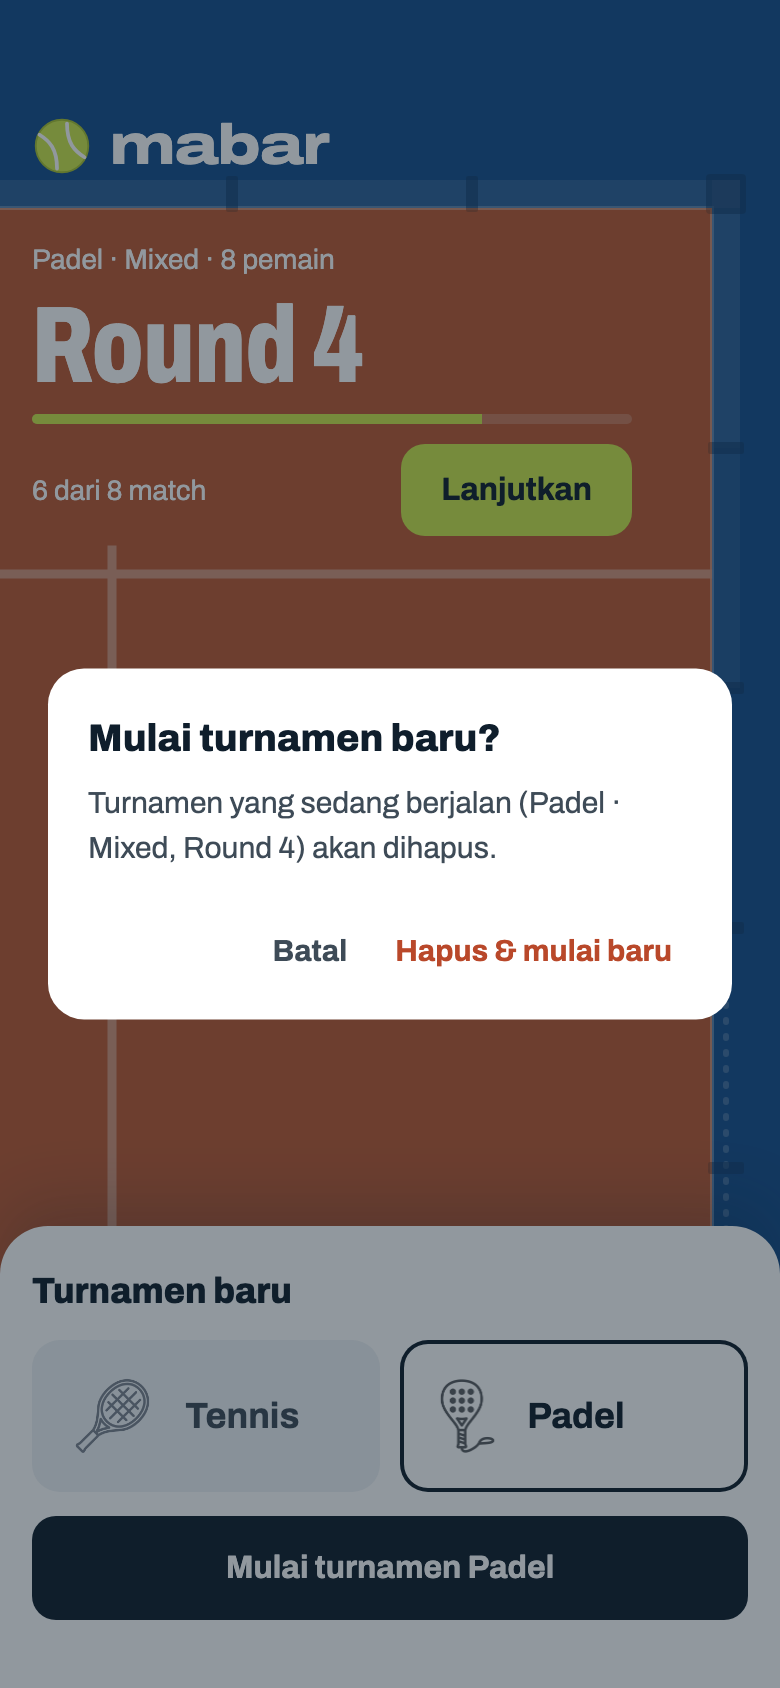
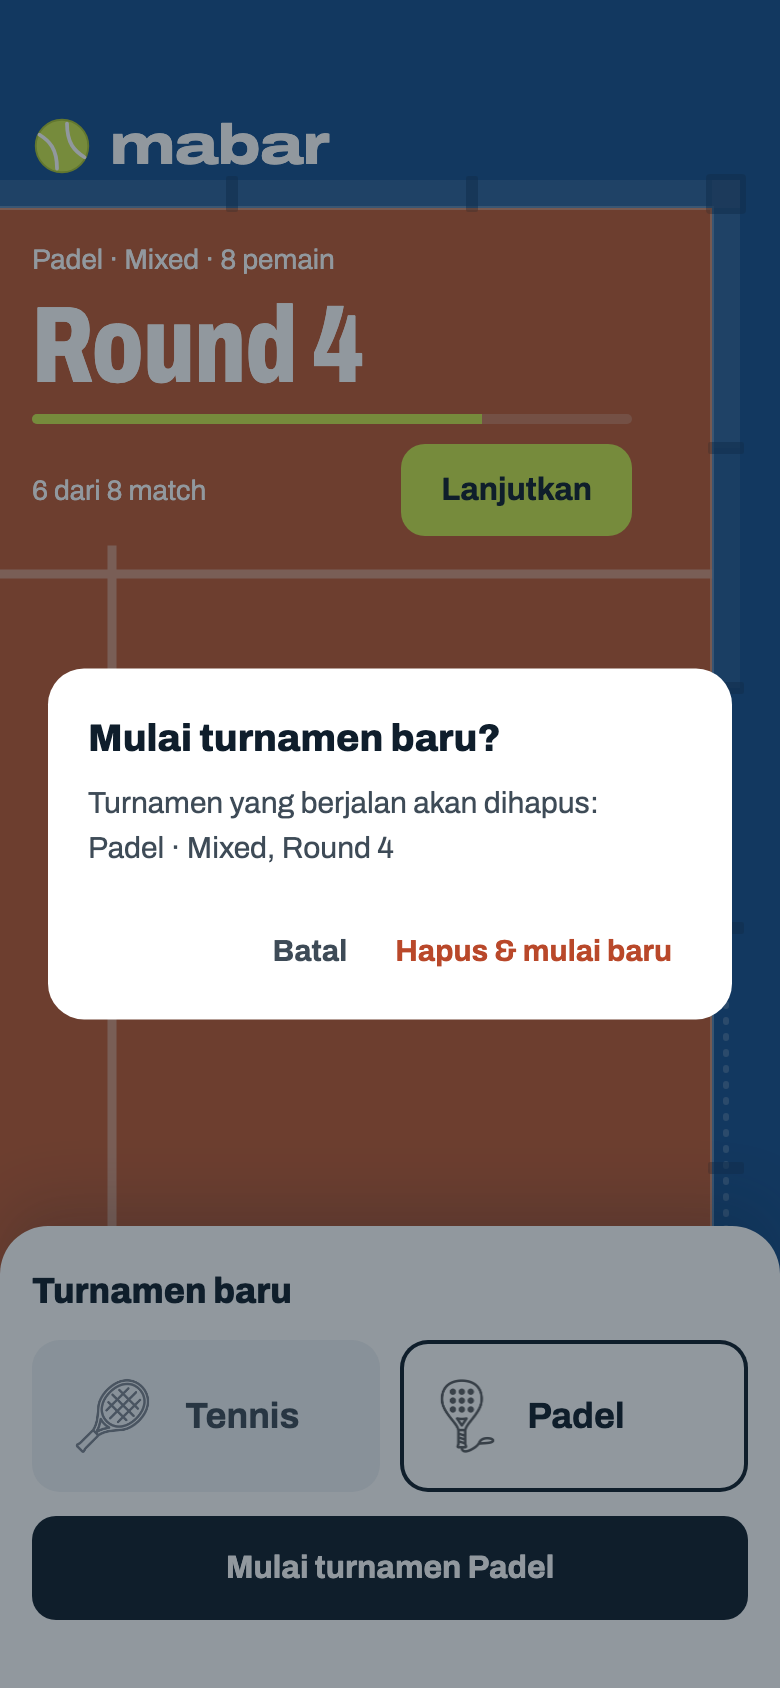
[major] Dialog mulai baru (01h): dua baris, turnamen yang dihapus di baris sendiri
Keputusan host 2026-10-22: "Turnamen yang berjalan akan dihapus:" lalu "Padel · Mixed, Round 4". "sedang"
dibuang supaya baris pertama muat satu baris di lebar dialog. Hi-fi + Cakupan diperbarui, 01h dirender ulang.

Changed region(s): [[0.1231, 0.4621, 0.7692, 0.5237]]

diff --git a/design/hifi.html b/design/hifi.html
@@ -863,7 +863,7 @@ table.map { width: 100%; border-collapse: collapse; font-size: 14px; min-width: 
 
     <div class="scr">
       <div class="cap"><b>01h</b><span>Dialog · mulai turnamen baru</span></div>
-      <div class="app"><div class="court-band fill"><svg class="lines" width="390" height="700" viewBox="0 0 390 700" aria-hidden="true"><rect width="390" height="700" fill="#164E8C"/><rect x="-10" y="104" width="366" height="620" fill="#BC5A33"/><g class="marks"><rect x="-10" y="90" width="380" height="14" fill="#fff" fill-opacity=".3"/><rect x="356" y="90" width="14" height="134" fill="#fff" fill-opacity=".3"/><rect x="356" y="224" width="14" height="120" fill="#fff" fill-opacity=".18"/><path d="M-10 104H356V700" stroke="#fff" stroke-opacity=".85" stroke-width="2" fill="none"/><path d="M363 350V700" stroke="#fff" stroke-opacity=".55" stroke-width="3" stroke-dasharray="1 7" stroke-linecap="round" fill="none"/><g fill="#0F1E2C" fill-opacity=".55"><rect x="353" y="87" width="20" height="20" rx="2"/><rect x="233" y="88" width="6" height="18" rx="1"/><rect x="113" y="88" width="6" height="18" rx="1"/><rect x="354" y="221" width="18" height="6" rx="1"/><rect x="354" y="341" width="18" height="6" rx="1"/><rect x="354" y="461" width="18" height="6" rx="1"/><rect x="354" y="581" width="18" height="6" rx="1"/></g><g stroke="#fff" fill="none" stroke-linecap="square" stroke-width="4.5"><path d="M-10 287H354M56 275V710"/></g></g></svg><div class="wordmark"><svg width="30" height="30" aria-hidden="true"><use href="#ball"/></svg>mabar</div><div class="liveblock" style="top:120px;width:300px;gap:10px"><span class="sub">Padel · Mixed · 8 pemain</span><b class="big n">Round 4</b><div class="prog"><i style="width:75%"></i></div><div class="foot"><span>6 dari 8 match</span><span class="btn btn-ball">Lanjutkan</span></div></div></div><div class="homepanel"><h2>Turnamen baru</h2><div class="pick"><div class="pickt "><img src="img/racket_tennis.png" alt=""><b>Tennis</b></div><div class="pickt on"><img src="img/racket_padel.png" alt=""><b>Padel</b></div></div><span class="btn btn-primary" style="flex:none">Mulai turnamen Padel</span></div><div class="scrim"></div><div class="dialog"><h2>Mulai turnamen baru?</h2><p>Turnamen yang sedang berjalan (Padel · Mixed, Round 4) akan dihapus.</p><div class="dactions"><span class="txtbtn">Batal</span><span class="txtbtn danger">Hapus &amp; mulai baru</span></div></div></div>
+      <div class="app"><div class="court-band fill"><svg class="lines" width="390" height="700" viewBox="0 0 390 700" aria-hidden="true"><rect width="390" height="700" fill="#164E8C"/><rect x="-10" y="104" width="366" height="620" fill="#BC5A33"/><g class="marks"><rect x="-10" y="90" width="380" height="14" fill="#fff" fill-opacity=".3"/><rect x="356" y="90" width="14" height="134" fill="#fff" fill-opacity=".3"/><rect x="356" y="224" width="14" height="120" fill="#fff" fill-opacity=".18"/><path d="M-10 104H356V700" stroke="#fff" stroke-opacity=".85" stroke-width="2" fill="none"/><path d="M363 350V700" stroke="#fff" stroke-opacity=".55" stroke-width="3" stroke-dasharray="1 7" stroke-linecap="round" fill="none"/><g fill="#0F1E2C" fill-opacity=".55"><rect x="353" y="87" width="20" height="20" rx="2"/><rect x="233" y="88" width="6" height="18" rx="1"/><rect x="113" y="88" width="6" height="18" rx="1"/><rect x="354" y="221" width="18" height="6" rx="1"/><rect x="354" y="341" width="18" height="6" rx="1"/><rect x="354" y="461" width="18" height="6" rx="1"/><rect x="354" y="581" width="18" height="6" rx="1"/></g><g stroke="#fff" fill="none" stroke-linecap="square" stroke-width="4.5"><path d="M-10 287H354M56 275V710"/></g></g></svg><div class="wordmark"><svg width="30" height="30" aria-hidden="true"><use href="#ball"/></svg>mabar</div><div class="liveblock" style="top:120px;width:300px;gap:10px"><span class="sub">Padel · Mixed · 8 pemain</span><b class="big n">Round 4</b><div class="prog"><i style="width:75%"></i></div><div class="foot"><span>6 dari 8 match</span><span class="btn btn-ball">Lanjutkan</span></div></div></div><div class="homepanel"><h2>Turnamen baru</h2><div class="pick"><div class="pickt "><img src="img/racket_tennis.png" alt=""><b>Tennis</b></div><div class="pickt on"><img src="img/racket_padel.png" alt=""><b>Padel</b></div></div><span class="btn btn-primary" style="flex:none">Mulai turnamen Padel</span></div><div class="scrim"></div><div class="dialog"><h2>Mulai turnamen baru?</h2><p>Turnamen yang berjalan akan dihapus:<br>Padel · Mixed, Round 4</p><div class="dactions"><span class="txtbtn">Batal</span><span class="txtbtn danger">Hapus &amp; mulai baru</span></div></div></div>
       <ul><li>Slot aktif cuma satu. "Hapus &amp; mulai baru" lanjut ke layar Pemain dengan olahraga yang dipilih di panel.</li><li>Baru: isi dialog menyebut turnamen mana yang akan hilang.</li></ul>
     </div>
 
@@ -2255,7 +2255,7 @@ Citra L<span class="caret"></span></div><div class="tools"><span class="txtbtn">
         <li>Generator Mixed: undian pemain seri dikunci per round (seed turnamen + nomor round), perlu test baru.</li>
         <li>Input Skor: satu angka besar per tim, keypad sendiri, batas angka per format di keypad.</li>
         <li>Mixed Final setelah diakhiri atau waktu habis dengan round terakhir lengkap; Peringkat W–L–D; Detail Fixed dua nama, Mixed dengan partner; istilah "pemain"; Bagikan status nyata, hitungan pasangan, tema default biru; "1 round (R9)".</li>
-        <li>Ikon app: opsi A di 01j — sudut lapangan tampak atas dari painter Beranda, garis putih 100%, bola di service box.</li><li>Simpanan turnamen membawa versi app yang menulisnya (<code>appVersion</code>, semver); data tanpa versi atau dari skema lama diabaikan, bukan dipaksa dibaca (2026-10-22).</li><li>Gambar Feed/Story (11d, 11f, 11g) memakai line-height 1,4 seperti kartu pratinjau, jadi kaki Feed Ringkas tetap di dalam padding (2026-10-22).</li><li>Keypad: kotak yang sudah penuh atau baru dipilih menerima ketikan berikutnya sebagai pengganti isinya, jadi yang mati hanya angka di atas batas (07a–07g digambar ulang dengan tombol mati); saat ubah skor (07i) semua angka mati sampai kotak diketuk (2026-10-22).</li><li>Tinggi tombol mengikuti niat desain: Lanjutkan di banner 46 pt (01e, 01f), Tambah di Kelola pemain 48 pt sejajar kolom nama (08a, 08b) (2026-10-22).</li><li>Transisi 01g: keyframe 200 ms digambar persis dari aturan (posisi garis 0,37, kaca belum tampak); nama lama hilang di 30% pertama (2026-10-22).</li><li>Data contoh Jadwal Fixed dibetulkan: 06c (R5) jadi Andi · Budi 6–5 Indra · Joko, Citra · Dewant vs Gina · Hana tidak dimainkan, Eko · Fajar istirahat — Indra · Joko sudah istirahat di R2, dan di round-robin 5 pasangan tiap pasangan istirahat tepat sekali. 06d dan 06e dilengkapi match court 2 dan baris Istirahat seperti 06a karena keadaannya sama (2026-10-22).</li><li>Frame lapisan (menu, dialog, sheet) menggambar layar di belakangnya persis sesuai keadaan layar itu: 06i dan 06j sama dengan 06h (match court 2, Istirahat, Batalkan R4), 06k menampilkan R1 yang baru dibuat dengan Istirahat dan action bar. Jadwal Fixed yang sudah diakhiri: ⋯ pudar dan tidak bisa diketuk karena menunya kosong (06c) (2026-10-22).</li><li>Aturan frame lapisan juga untuk 08a–08d: latar 08a = keadaan 06f, 08c/08d = 06l, 08b = Tennis R2 (Andi · Citra vs Budi · Dewant belum diisi, Batalkan R2 karena R2 belum ada skor). Daftar 08a digambar lengkap 11 baris (10 aktif + Kiki A keluar, urut daftar pemain awal); sheet setinggi 92% dan daftarnya digulir di dalam (2026-10-22).</li><li>Contoh Tennis Fixed 10 pemain di Jadwal (06a–06e) dan di Peringkat/Detail (09c, 10b) adalah dua turnamen contoh yang berbeda; jadwal round-robin-nya tidak perlu sama (2026-10-22).</li><li>11c menggambar layar Bagikan lengkap (seperti 11a) pada momen sesudah share gagal: tombol "Bagikan hasil" aktif lagi dan toast "Hasil disalin"; "Menyiapkan gambar…" tetap perilaku saat render, tidak digambar terpisah. Toast selalu 19 pt di atas action bar (2026-10-22).</li><li>"Prioritas main di R…" di judul Istirahat ditulis tinta (ink), bukan biru court: biru dipakai untuk tautan/aksi seperti "Batalkan Rn", jadi teks info berwarna biru terkesan bisa diketuk (2026-10-22).</li><li>Rekor menang–kalah–seri ditulis W–L–D (W–L kalau format tidak bisa seri) di Peringkat dan Detail, satu bahasa dengan Win % dan Total Point; sebelumnya M–K–S (2026-10-22).</li><li>Race to N murni: match selesai begitu satu tim mencapai N, skor akhir N lawan 0..N−1. Tidak ada 7–5 / 7–6 maupun "(tie-break)" — itu skor set standar, format lain. Keypad dibatasi N (Race to 6: 7–9 mati); 6–6 ditolak "Hanya satu tim yang bisa mencapai 6"; 07c jadi contoh 6–5 (2026-10-22).</li><li>Data contoh 01e/01h dibetulkan jadi "Round 4 · 6 dari 8 match" (R4 baru dibuat): "Round 3 · 6 dari 8" mustahil di Mixed 8 pemain karena round berikutnya baru dibuat setelah round terakhir lengkap (2026-10-22).</li>
+        <li>Ikon app: opsi A di 01j — sudut lapangan tampak atas dari painter Beranda, garis putih 100%, bola di service box.</li><li>Simpanan turnamen membawa versi app yang menulisnya (<code>appVersion</code>, semver); data tanpa versi atau dari skema lama diabaikan, bukan dipaksa dibaca (2026-10-22).</li><li>Gambar Feed/Story (11d, 11f, 11g) memakai line-height 1,4 seperti kartu pratinjau, jadi kaki Feed Ringkas tetap di dalam padding (2026-10-22).</li><li>Keypad: kotak yang sudah penuh atau baru dipilih menerima ketikan berikutnya sebagai pengganti isinya, jadi yang mati hanya angka di atas batas (07a–07g digambar ulang dengan tombol mati); saat ubah skor (07i) semua angka mati sampai kotak diketuk (2026-10-22).</li><li>Tinggi tombol mengikuti niat desain: Lanjutkan di banner 46 pt (01e, 01f), Tambah di Kelola pemain 48 pt sejajar kolom nama (08a, 08b) (2026-10-22).</li><li>Transisi 01g: keyframe 200 ms digambar persis dari aturan (posisi garis 0,37, kaca belum tampak); nama lama hilang di 30% pertama (2026-10-22).</li><li>Data contoh Jadwal Fixed dibetulkan: 06c (R5) jadi Andi · Budi 6–5 Indra · Joko, Citra · Dewant vs Gina · Hana tidak dimainkan, Eko · Fajar istirahat — Indra · Joko sudah istirahat di R2, dan di round-robin 5 pasangan tiap pasangan istirahat tepat sekali. 06d dan 06e dilengkapi match court 2 dan baris Istirahat seperti 06a karena keadaannya sama (2026-10-22).</li><li>Frame lapisan (menu, dialog, sheet) menggambar layar di belakangnya persis sesuai keadaan layar itu: 06i dan 06j sama dengan 06h (match court 2, Istirahat, Batalkan R4), 06k menampilkan R1 yang baru dibuat dengan Istirahat dan action bar. Jadwal Fixed yang sudah diakhiri: ⋯ pudar dan tidak bisa diketuk karena menunya kosong (06c) (2026-10-22).</li><li>Aturan frame lapisan juga untuk 08a–08d: latar 08a = keadaan 06f, 08c/08d = 06l, 08b = Tennis R2 (Andi · Citra vs Budi · Dewant belum diisi, Batalkan R2 karena R2 belum ada skor). Daftar 08a digambar lengkap 11 baris (10 aktif + Kiki A keluar, urut daftar pemain awal); sheet setinggi 92% dan daftarnya digulir di dalam (2026-10-22).</li><li>Contoh Tennis Fixed 10 pemain di Jadwal (06a–06e) dan di Peringkat/Detail (09c, 10b) adalah dua turnamen contoh yang berbeda; jadwal round-robin-nya tidak perlu sama (2026-10-22).</li><li>11c menggambar layar Bagikan lengkap (seperti 11a) pada momen sesudah share gagal: tombol "Bagikan hasil" aktif lagi dan toast "Hasil disalin"; "Menyiapkan gambar…" tetap perilaku saat render, tidak digambar terpisah. Toast selalu 19 pt di atas action bar (2026-10-22).</li><li>"Prioritas main di R…" di judul Istirahat ditulis tinta (ink), bukan biru court: biru dipakai untuk tautan/aksi seperti "Batalkan Rn", jadi teks info berwarna biru terkesan bisa diketuk (2026-10-22).</li><li>Rekor menang–kalah–seri ditulis W–L–D (W–L kalau format tidak bisa seri) di Peringkat dan Detail, satu bahasa dengan Win % dan Total Point; sebelumnya M–K–S (2026-10-22).</li><li>Race to N murni: match selesai begitu satu tim mencapai N, skor akhir N lawan 0..N−1. Tidak ada 7–5 / 7–6 maupun "(tie-break)" — itu skor set standar, format lain. Keypad dibatasi N (Race to 6: 7–9 mati); 6–6 ditolak "Hanya satu tim yang bisa mencapai 6"; 07c jadi contoh 6–5 (2026-10-22).</li><li>Dialog 01h ditulis dua baris: "Turnamen yang berjalan akan dihapus:" lalu turnamennya ("Padel · Mixed, Round 4") di baris sendiri (2026-10-22).</li><li>Data contoh 01e/01h dibetulkan jadi "Round 4 · 6 dari 8 match" (R4 baru dibuat): "Round 3 · 6 dari 8" mustahil di Mixed 8 pemain karena round berikutnya baru dibuat setelah round terakhir lengkap (2026-10-22).</li>
         <li>WO: Race to → pemenang N game; Best of &amp; Americano → rata-rata sendiri, minimal skor menang terkecil (⌊total ÷ 2⌋ + 1); kalah 0; selisih tidak berubah (mengganti "games WO tidak dihitung" di PRD 4.4; perlu test baru di <code>ranking_calculator</code>).</li>
         <li>Komponen lapisan: <code>showMabarConfirm</code> untuk semua dialog konfirmasi, <code>showMabarSheet</code> dengan lima jenis footer.</li>
       </ul>

diff --git a/lib/features/home/home_screen.dart b/lib/features/home/home_screen.dart
@@ -49,8 +49,8 @@ class _HomeScreenState extends ConsumerState<HomeScreen> {
         context,
         title: 'Mulai turnamen baru?',
         message:
-            'Turnamen yang sedang berjalan (${active.config.sport.label} · ${active.config.mode.label}, '
-            'Round ${active.currentRound}) akan dihapus.',
+            'Turnamen yang berjalan akan dihapus:\n'
+            '${active.config.sport.label} · ${active.config.mode.label}, Round ${active.currentRound}',
         confirmLabel: 'Hapus & mulai baru',
         destructive: true,
       );
